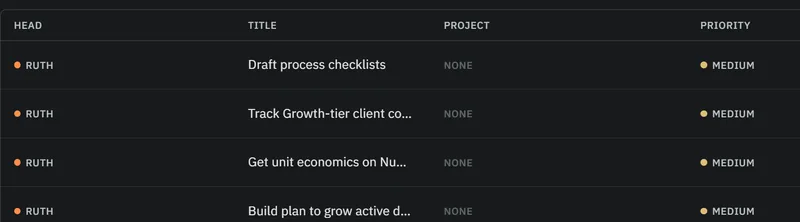
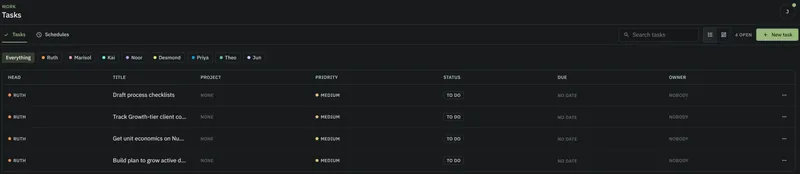
Crop tasks to the whole screen, not a strip of it
The first crop matched the old file's 3.60 aspect out of habit, and
paid for it: the status, due and owner columns fell off the right
edge and the last row was cut through the middle. Matching a file
that no longer exists was never worth anything.

It now starts at the page title, so the image says what it is, and
ends below the last row. All seven columns, all four rows, and the
head filter chips above them. 3393x737, aspect 4.60.

The card is 13KB against 16KB before, because a wider crop of the
same screen resizes to fewer pixels of detail per column.

diff --git a/lib/site.ts b/lib/site.ts
@@ -126,12 +126,12 @@ export const heroShots: Screenshot[] = [
   },
   {
     src: "/screens/tasks.webp",
-    alt: "The task list, with columns for head, title, project, priority and status.",
+    alt: "The task list, filtered by head, with columns for head, title, project, priority, status, due date and owner.",
     caption: "",
     width: 1500,
-    height: 417,
-    fullWidth: 1519,
-    fullHeight: 422,
+    height: 326,
+    fullWidth: 2600,
+    fullHeight: 565,
   },
   {
     src: "/screens/wiki.webp",
